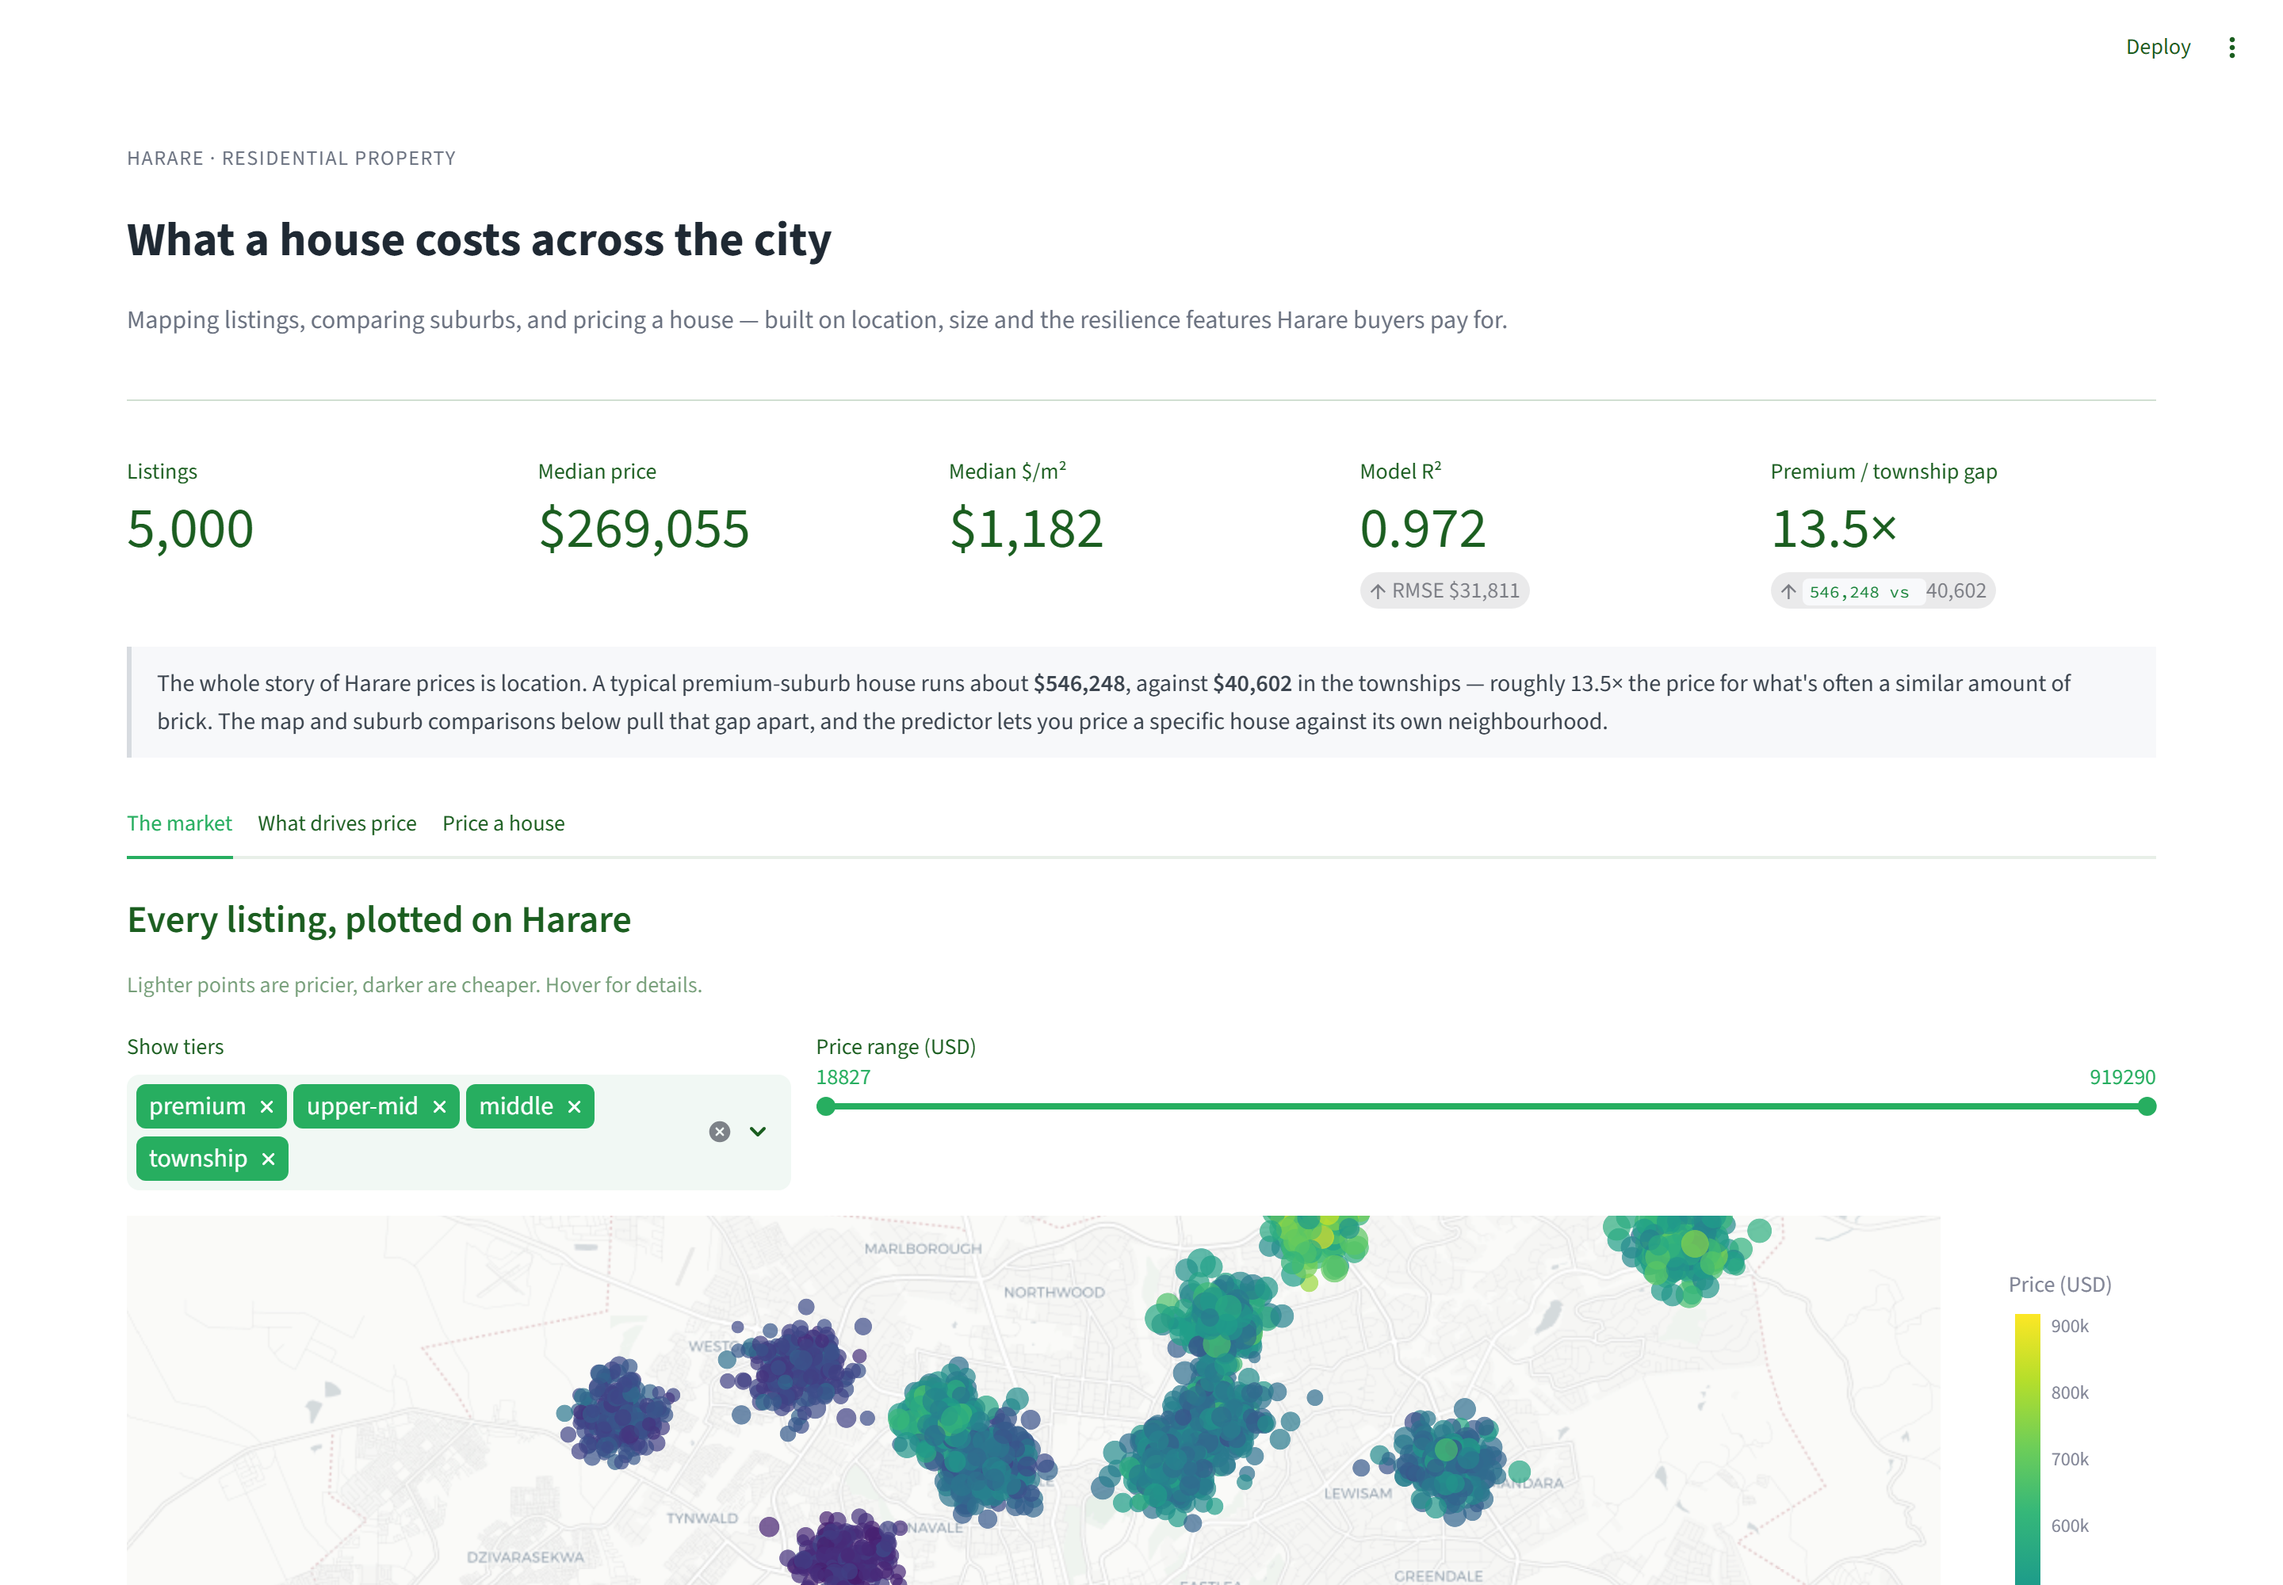
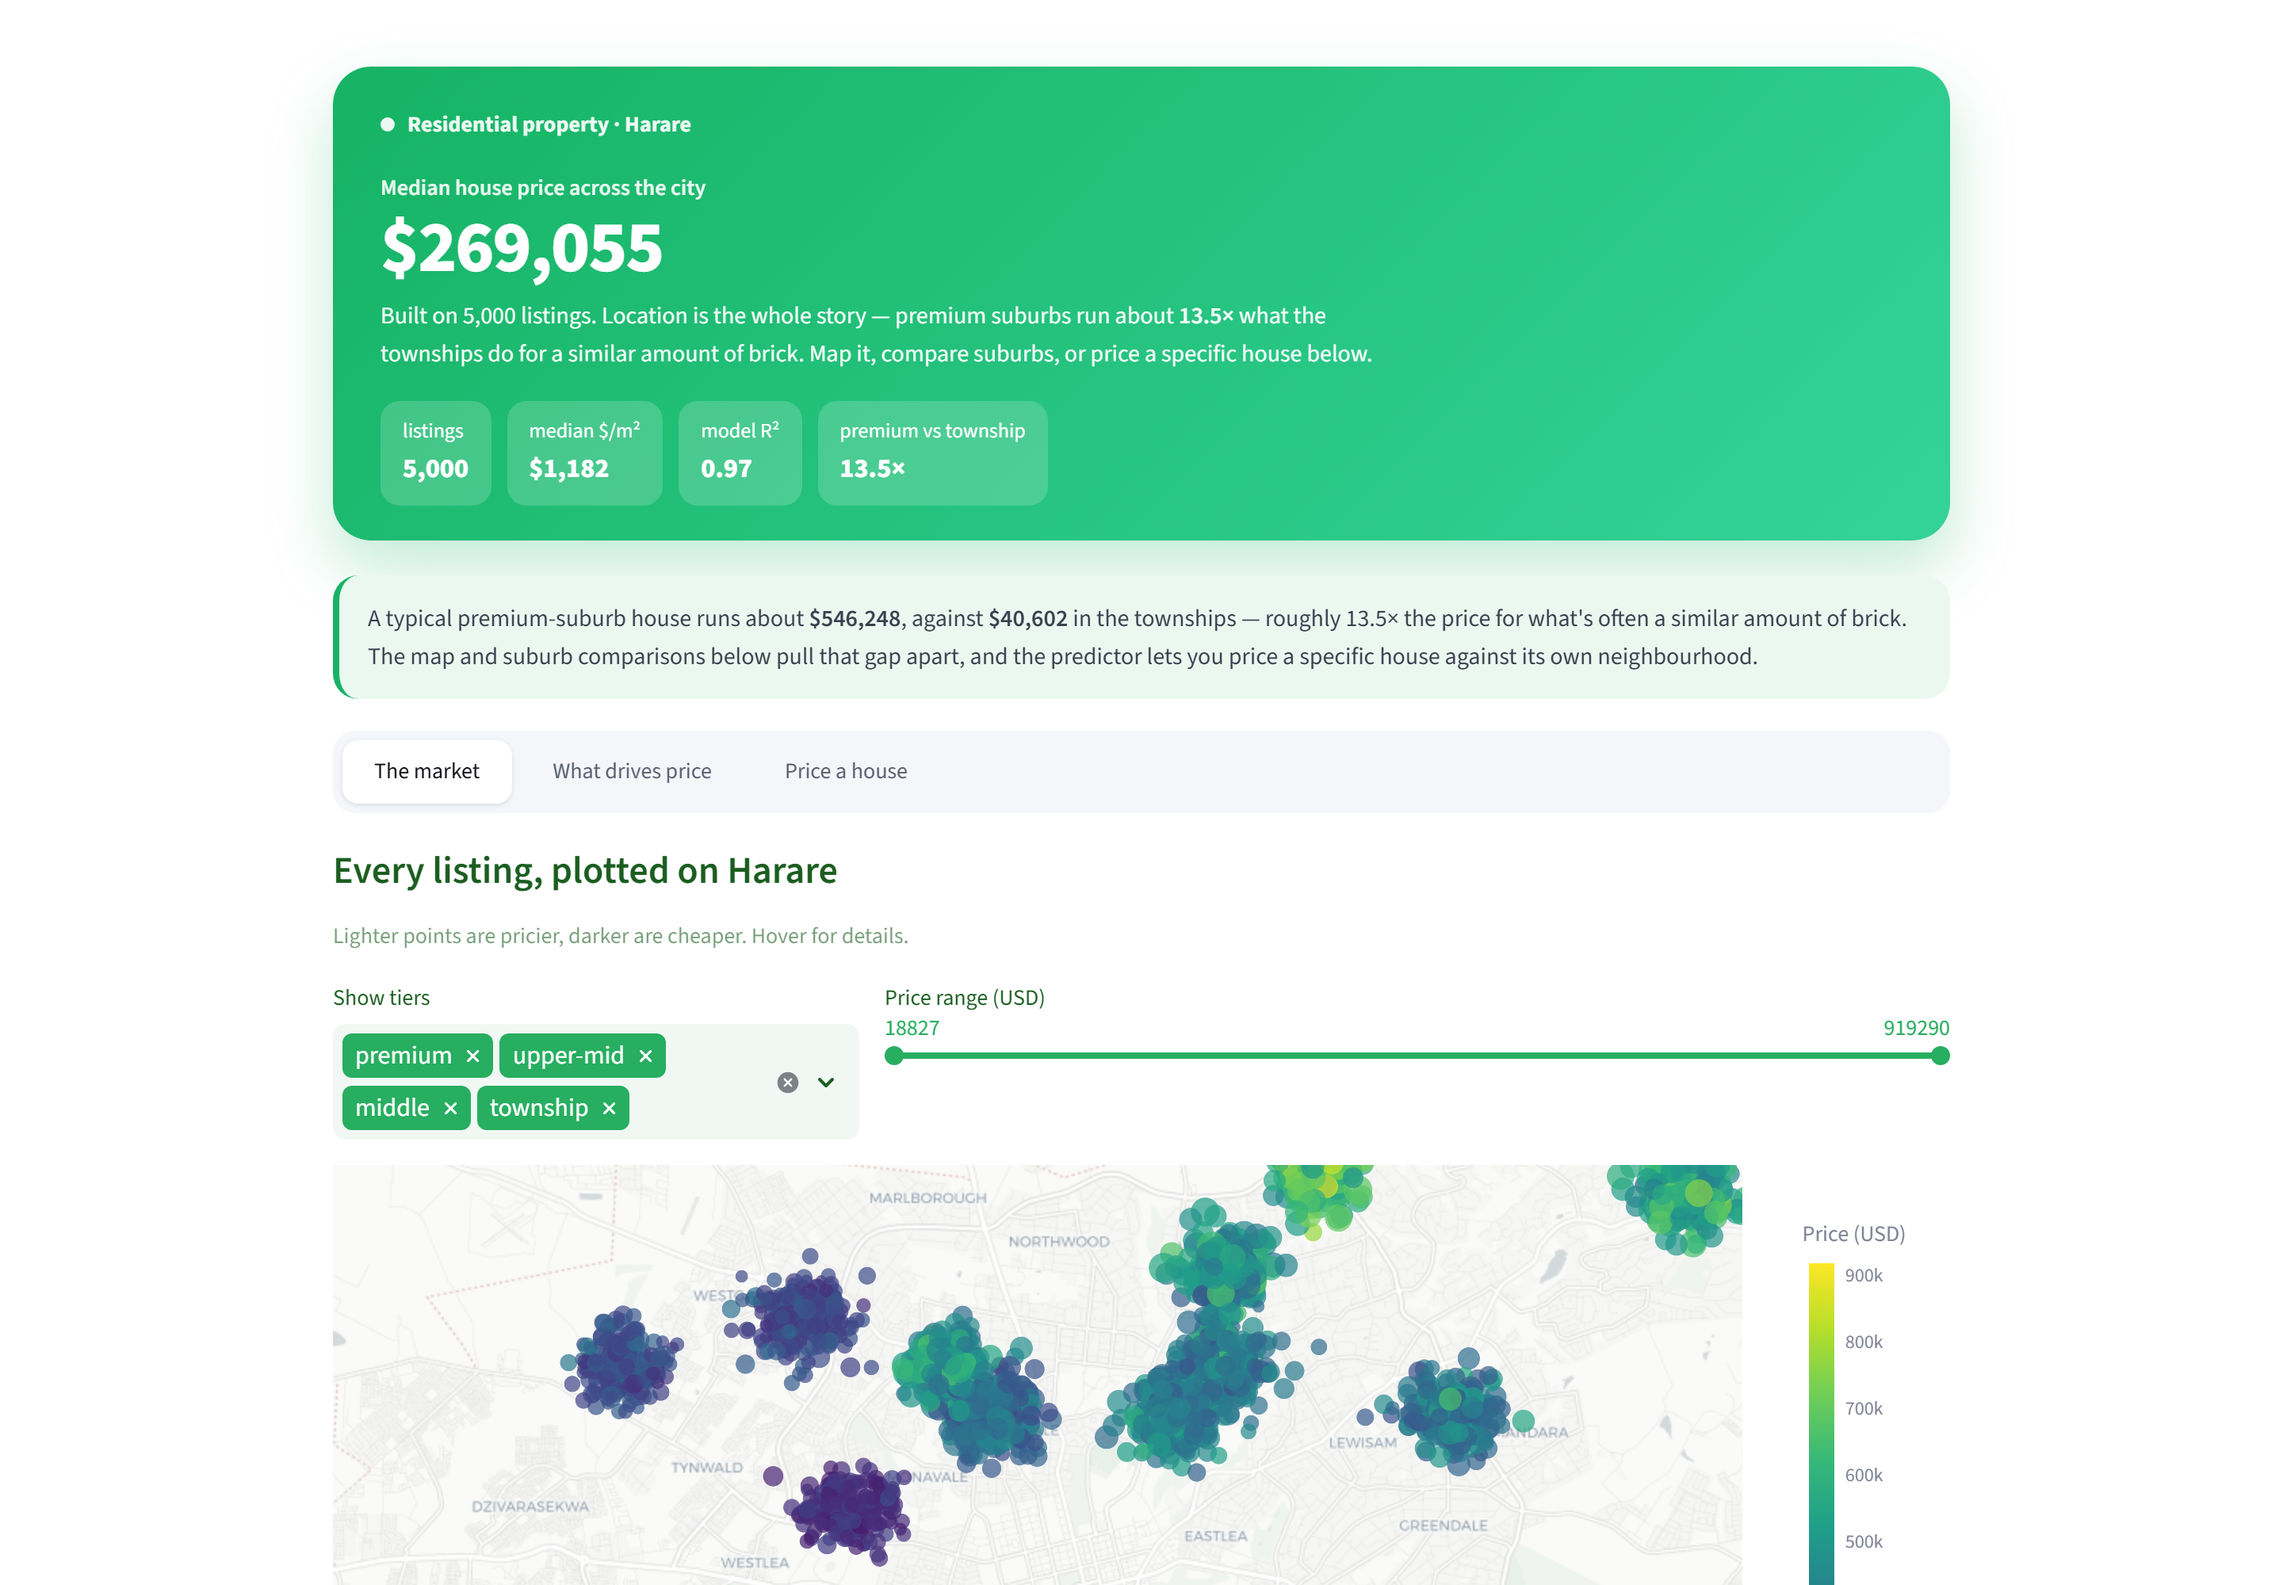
Redesign dashboard with a fintech-app look
Emerald gradient hero with a "balance" headline, metric cards, pill tabs,
Manrope type and a cohesive palette. Refresh the preview screenshot.

diff --git a/dashboard.py b/dashboard.py
@@ -53,11 +53,23 @@ SUBURBS = {
 }
 CBD_LAT, CBD_LON = -17.831, 31.045
 
-# A calm, professional palette — not the marketing-hero template look.
-INK = "#1f2933"
-MUTED = "#6b7280"
-ACCENT = "#2f7d4f"   # muted Harare green, used sparingly
+# ---- Fintech palette -------------------------------------------------------
+BRAND = "#16B364"      # emerald — money / property / growth
+BRAND2 = "#34D399"     # mint, for the hero gradient
+INK = "#16161D"
+MUTED = "#5B6172"
+BODY = "#5B6172"
+ACCENT = BRAND
+GOOD = "#16B364"
+WARN = "#FB8C00"
+BLUE = "#4C6FFF"
+GREY = "#9AA0AE"
+SOFT = "#F5F6FA"
+LINE = "#EEF0F4"
+FONT = "Manrope"
 PLOT_TEMPLATE = "plotly_white"
+GREEN_SCALE = ["#EAFBF1", "#A9EDC6", "#5FD898", "#16B364", "#0E8A4C"]
+TIER_COLORS = {"premium": BRAND, "upper-mid": BLUE, "middle": WARN, "township": GREY}
 
 st.set_page_config(
     page_title="Harare house prices",
@@ -66,24 +78,82 @@ st.set_page_config(
     initial_sidebar_state="collapsed",
 )
 
+st.markdown(
+    f"""
+    <style>
+    @import url('https://fonts.googleapis.com/css2?family=Manrope:wght@400;500;600;700;800&display=swap');
+    html, body, [class*="css"], .stMarkdown, button, input, textarea {{
+        font-family: '{FONT}', system-ui, sans-serif;
+    }}
+    #MainMenu, header, footer {{ visibility: hidden; }}
+    .block-container {{ padding-top: 1.6rem; padding-bottom: 3rem; max-width: 1180px; }}
 
-def note(text: str) -> None:
-    """A quiet analyst's note — sentence-case, no shouting, woven into the page."""
+    .hero {{ background: linear-gradient(135deg, {BRAND} 0%, {BRAND2} 100%);
+        border-radius: 24px; padding: 26px 30px 22px 30px; color:#fff;
+        box-shadow: 0 18px 40px rgba(22,179,100,.26); }}
+    .hero .brand {{ font-size:14px; font-weight:700; opacity:.92; display:flex;
+        align-items:center; gap:8px; }}
+    .hero .dot {{ width:9px; height:9px; border-radius:50%; background:#fff; display:inline-block; }}
+    .hero .label {{ font-size:14px; opacity:.9; margin-top:18px; font-weight:600; }}
+    .hero .value {{ font-size:46px; font-weight:800; line-height:1.05; margin-top:2px; letter-spacing:-1px; }}
+    .hero .sub {{ font-size:15px; opacity:.95; margin-top:6px; max-width:660px; }}
+    .chips {{ display:flex; gap:10px; flex-wrap:wrap; margin-top:18px; }}
+    .chip {{ background: rgba(255,255,255,.18); border-radius:12px; padding:9px 14px; font-size:13px; }}
+    .chip b {{ font-size:17px; font-weight:800; display:block; }}
+
+    .callout {{ border-radius:16px; padding:15px 18px; margin:6px 0 20px 0;
+        font-size:15px; line-height:1.6; color:#3a3f4d; }}
+    .sec {{ margin: 26px 0 4px 0; }}
+    .sec h3 {{ font-size:20px; font-weight:800; color:{INK}; margin:0; }}
+    .sec p {{ font-size:14px; color:{BODY}; margin:3px 0 0 0; }}
+
+    /* native metrics styled as soft cards */
+    [data-testid="stMetric"] {{ background:#fff; border:1px solid #F0F1F5; border-radius:16px;
+        padding:14px 18px; box-shadow:0 1px 3px rgba(20,22,30,.05), 0 8px 22px rgba(20,22,30,.04); }}
+    [data-testid="stMetricValue"] {{ font-weight:800; color:{INK}; }}
+    [data-testid="stMetricLabel"] p {{ font-weight:600; color:{BODY}; }}
+
+    .stTabs [data-baseweb="tab-list"] {{ gap:6px; background:{SOFT}; padding:6px; border-radius:14px; }}
+    .stTabs [data-baseweb="tab"] {{ height:auto; padding:9px 20px; border-radius:10px;
+        font-weight:600; color:{BODY}; background:transparent; }}
+    .stTabs [aria-selected="true"] {{ background:#fff; color:{INK}; box-shadow:0 1px 3px rgba(0,0,0,.10); }}
+    .stTabs [data-baseweb="tab-highlight"], .stTabs [data-baseweb="tab-border"] {{ display:none; }}
+    </style>
+    """,
+    unsafe_allow_html=True,
+)
+
+
+def note(text: str, tone: str = "neutral") -> None:
+    bg = {"brand": "#EAF8F0", "good": "#E9FBF3", "warn": "#FFF6E9", "neutral": SOFT}[tone]
+    bar = {"brand": BRAND, "good": GOOD, "warn": WARN, "neutral": GREY}[tone]
     st.markdown(
-        f'<div style="border-left:3px solid #d7dbe0; background:#f7f8fa; '
-        f'padding:11px 16px; margin:4px 0 22px 0; color:#3a434d; '
-        f'font-size:15px; line-height:1.6;">{text}</div>',
+        f'<div class="callout" style="background:{bg};border-left:4px solid {bar};">{text}</div>',
         unsafe_allow_html=True,
     )
 
 
-def style_fig(fig, height=340):
+def section(title: str, sub: str | None = None) -> None:
+    st.markdown(
+        f'<div class="sec"><h3>{title}</h3>{f"<p>{sub}</p>" if sub else ""}</div>',
+        unsafe_allow_html=True,
+    )
+
+
+def style_fig(fig, height=340, legend=True):
     fig.update_layout(
         template=PLOT_TEMPLATE,
         height=height,
-        margin=dict(l=10, r=10, t=30, b=10),
-        font=dict(color=INK, size=13),
+        margin=dict(l=8, r=8, t=34, b=8),
+        font=dict(family=FONT, color=INK, size=13),
+        paper_bgcolor="rgba(0,0,0,0)",
+        plot_bgcolor="rgba(0,0,0,0)",
+        showlegend=legend,
     )
+    if fig.layout.title.text:
+        fig.update_layout(title_font=dict(family=FONT, size=15, color=INK))
+    fig.update_xaxes(gridcolor=LINE, zeroline=False)
+    fig.update_yaxes(gridcolor=LINE, zeroline=False)
     return fig
 
 
@@ -149,35 +219,32 @@ median_ppsqm = float(df["price_per_sqm"].median())
 # --------------------------------------------------------------------------- #
 st.markdown(
     f"""
-    <div style="margin:-6px 0 6px 0;">
-      <div style="font-size:13px; letter-spacing:.8px; color:{MUTED};
-                  text-transform:uppercase;">Harare &middot; residential property</div>
-      <h1 style="margin:2px 0 4px 0; font-size:30px; font-weight:700; color:{INK};">
-        What a house costs across the city</h1>
-      <div style="font-size:16px; color:{MUTED};">
-        Mapping listings, comparing suburbs, and pricing a house — built on
-        location, size and the resilience features Harare buyers pay for.</div>
+    <div class="hero">
+      <div class="brand"><span class="dot"></span> Residential property &middot; Harare</div>
+      <div class="label">Median house price across the city</div>
+      <div class="value">${median_price:,.0f}</div>
+      <div class="sub">Built on {len(df):,} listings. Location is the whole story —
+        premium suburbs run about <b>{gap_x:.1f}×</b> what the townships do for a similar
+        amount of brick. Map it, compare suburbs, or price a specific house below.</div>
+      <div class="chips">
+        <span class="chip">listings <b>{len(df):,}</b></span>
+        <span class="chip">median $/m² <b>${median_ppsqm:,.0f}</b></span>
+        <span class="chip">model R² <b>{metrics['r2']:.2f}</b></span>
+        <span class="chip">premium vs township <b>{gap_x:.1f}×</b></span>
+      </div>
     </div>
     """,
     unsafe_allow_html=True,
 )
-st.divider()
-
-c1, c2, c3, c4, c5 = st.columns(5)
-c1.metric("Listings", f"{len(df):,}")
-c2.metric("Median price", f"${median_price:,.0f}")
-c3.metric("Median $/m²", f"${median_ppsqm:,.0f}")
-c4.metric("Model R²", f"{metrics['r2']:.3f}", f"RMSE ${metrics['rmse']:,.0f}",
-          delta_color="off")
-c5.metric("Premium / township gap", f"{gap_x:.1f}×",
-          f"${mean_premium:,.0f} vs ${mean_township:,.0f}", delta_color="off")
+st.write("")
 
 note(
-    f"The whole story of Harare prices is location. A typical premium-suburb house "
-    f"runs about <b>${mean_premium:,.0f}</b>, against <b>${mean_township:,.0f}</b> in "
-    f"the townships — roughly {gap_x:.1f}× the price for what's often a similar amount "
-    f"of brick. The map and suburb comparisons below pull that gap apart, and the "
-    f"predictor lets you price a specific house against its own neighbourhood."
+    f"A typical premium-suburb house runs about <b>${mean_premium:,.0f}</b>, against "
+    f"<b>${mean_township:,.0f}</b> in the townships — roughly {gap_x:.1f}× the price for "
+    f"what's often a similar amount of brick. The map and suburb comparisons below pull "
+    f"that gap apart, and the predictor lets you price a specific house against its own "
+    f"neighbourhood.",
+    tone="brand",
 )
 
 tab_market, tab_drivers, tab_price = st.tabs([
@@ -278,10 +345,7 @@ with tab_market:
             .sort_values("median_price", ascending=False)
         )
 
-        tier_color = {
-            "premium": "#27AE60", "upper-mid": "#3498DB",
-            "middle": "#F39C12", "township": "#95A5A6",
-        }
+        tier_color = TIER_COLORS
 
         col_a, col_b = st.columns(2)
         with col_a:
@@ -436,10 +500,7 @@ with tab_drivers:
     fig = px.box(
         df, x="price_usd", y="suburb", color="tier",
         category_orders={"suburb": order.tolist()},
-        color_discrete_map={
-            "premium": ACCENT, "upper-mid": "#5b8aa6",
-            "middle": "#c98a3a", "township": "#8a929b",
-        },
+        color_discrete_map=TIER_COLORS,
         labels={"price_usd": "Price (USD)", "suburb": ""},
     )
     fig.update_layout(xaxis_tickformat="$,.0f")
@@ -458,7 +519,7 @@ with tab_drivers:
 
     fig = px.bar(
         eff, x="uplift_%", y="feature", orientation="h",
-        color="uplift_%", color_continuous_scale="Greens",
+        color="uplift_%", color_continuous_scale=GREEN_SCALE,
         text=eff["uplift_%"].map(lambda x: f"+{x:.0f}%"),
         labels={"uplift_%": "Median uplift vs houses without"},
     )
@@ -480,10 +541,7 @@ with tab_drivers:
     fig = px.scatter(
         df.sample(min(2000, len(df)), random_state=RNG),
         x="size_sqm", y="price_usd", color="tier",
-        color_discrete_map={
-            "premium": ACCENT, "upper-mid": "#5b8aa6",
-            "middle": "#c98a3a", "township": "#8a929b",
-        },
+        color_discrete_map=TIER_COLORS,
         opacity=0.55, trendline="ols",
         labels={"size_sqm": "House size (m²)", "price_usd": "Price (USD)"},
     )
